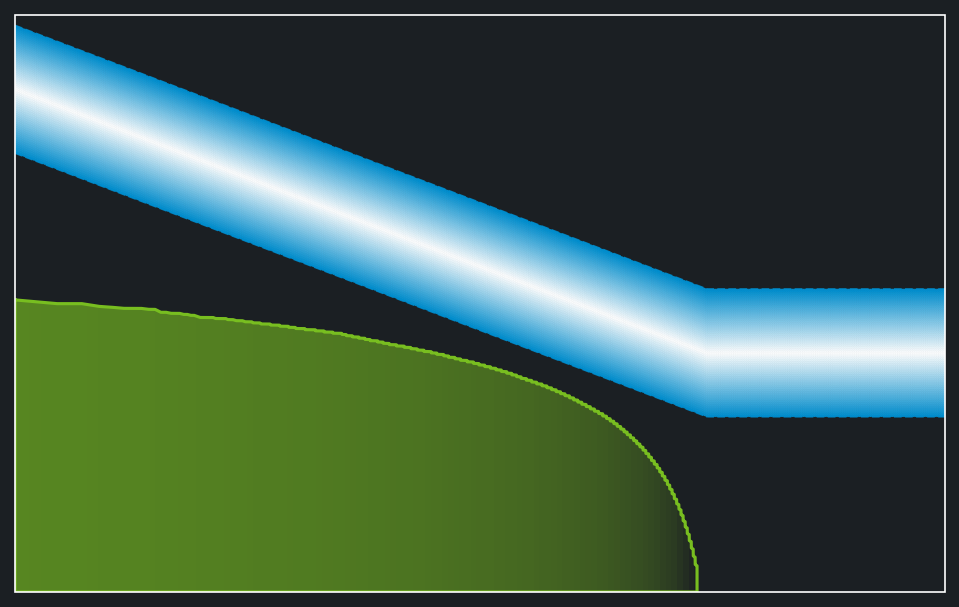
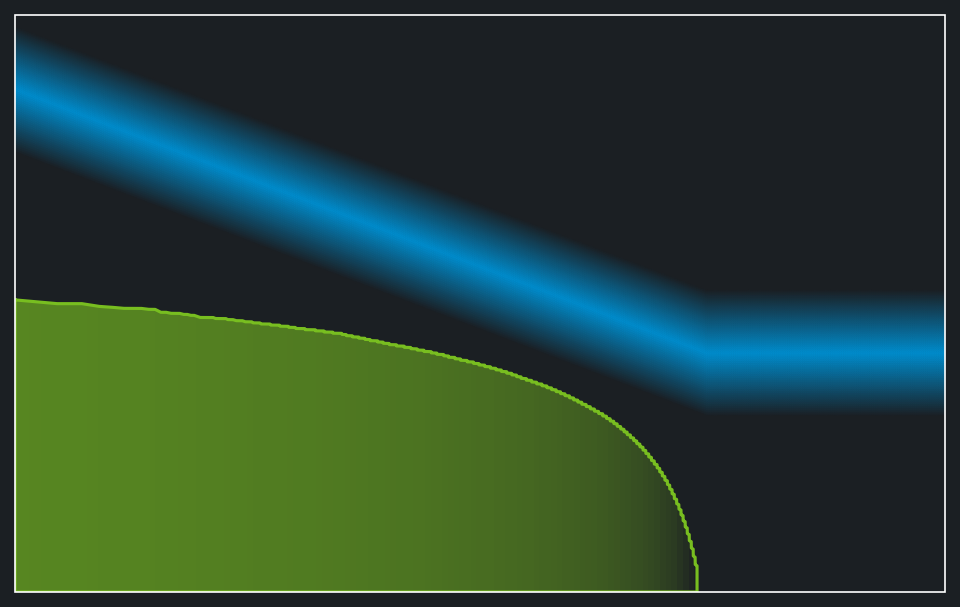
Improve dark mode gradients for Wöhler curves

Changed region(s): [[0.0, 0.0297, 0.9979, 0.7117], [0.6955, 0.8007, 0.7258, 0.9193], [0.6653, 0.7414, 0.6955, 0.771]]

diff --git a/scripts/woehler_collective.py b/scripts/woehler_collective.py
@@ -55,7 +55,6 @@ GRADIENT_COLLECTIVE = ["#006249", "#78be20"]
 GRADIENT_WOEHLER_BAND = ["#ffffff", "#008ecf"]
 
 COLOR_COLLECTIVE = GRADIENT_COLLECTIVE[-1]
-COLOR_WOEHLER = GRADIENT_WOEHLER_BAND[0]
 
 BACKGROUND_COLORS = {
     "transparent": None,
@@ -255,7 +254,10 @@ def plot(amplitude, cumulated_cycles, wc, background, collective_gradient):
 
     # On a dark background the gradient is inverted so the band still reads
     # as a glow: blue at the edges fading to white at the 50 % line.
-    band_colors = list(reversed(GRADIENT_WOEHLER_BAND)) if background == 'dark' else GRADIENT_WOEHLER_BAND
+    band_colors: = GRADIENT_WOEHLER_BAND
+    if background == 'dark':
+        band_colors[0] = BACKGROUND_COLORS["dark"]
+
     _fill_band_gradient(ax, cycles, load_10, load_90, band_colors, zorder=1)
 
     dashed_color = band_colors[0]

diff --git a/scripts/woehler_analyzer.py b/scripts/woehler_analyzer.py
@@ -52,21 +52,19 @@ REPO_ROOT = Path(__file__).resolve().parent.parent
 # The two greens of the pyLife logo.
 DARK_GREEN = "#006249"
 LIGHT_GREEN = "#78be20"
+DARK_BACKGROUND = "#1b1f23"\
 
-# Gradient for the fitted curve's scatter band, taken from woehler_collective.py:
-# white fading into pyLife blue.
-GRADIENT_WOEHLER_BAND = ["#ffffff", "#008ecf"]
 
 BACKGROUND_SETTINGS = {
     "light": {
         "background_color": "#ffffff",
         "data_color": DARK_GREEN,
-        "band_colors": GRADIENT_WOEHLER_BAND,
+        "band_colors": ["#ffffff", "#008ecf"],
     },
     "dark": {
-        "background_color": "#1b1f23",
+        "background_color": DARK_BACKGROUND,
         "data_color": LIGHT_GREEN,
-        "band_colors": list(reversed(GRADIENT_WOEHLER_BAND)),
+        "band_colors": [DARK_BACKGROUND, "#008ecf"]
     },
 }
 
